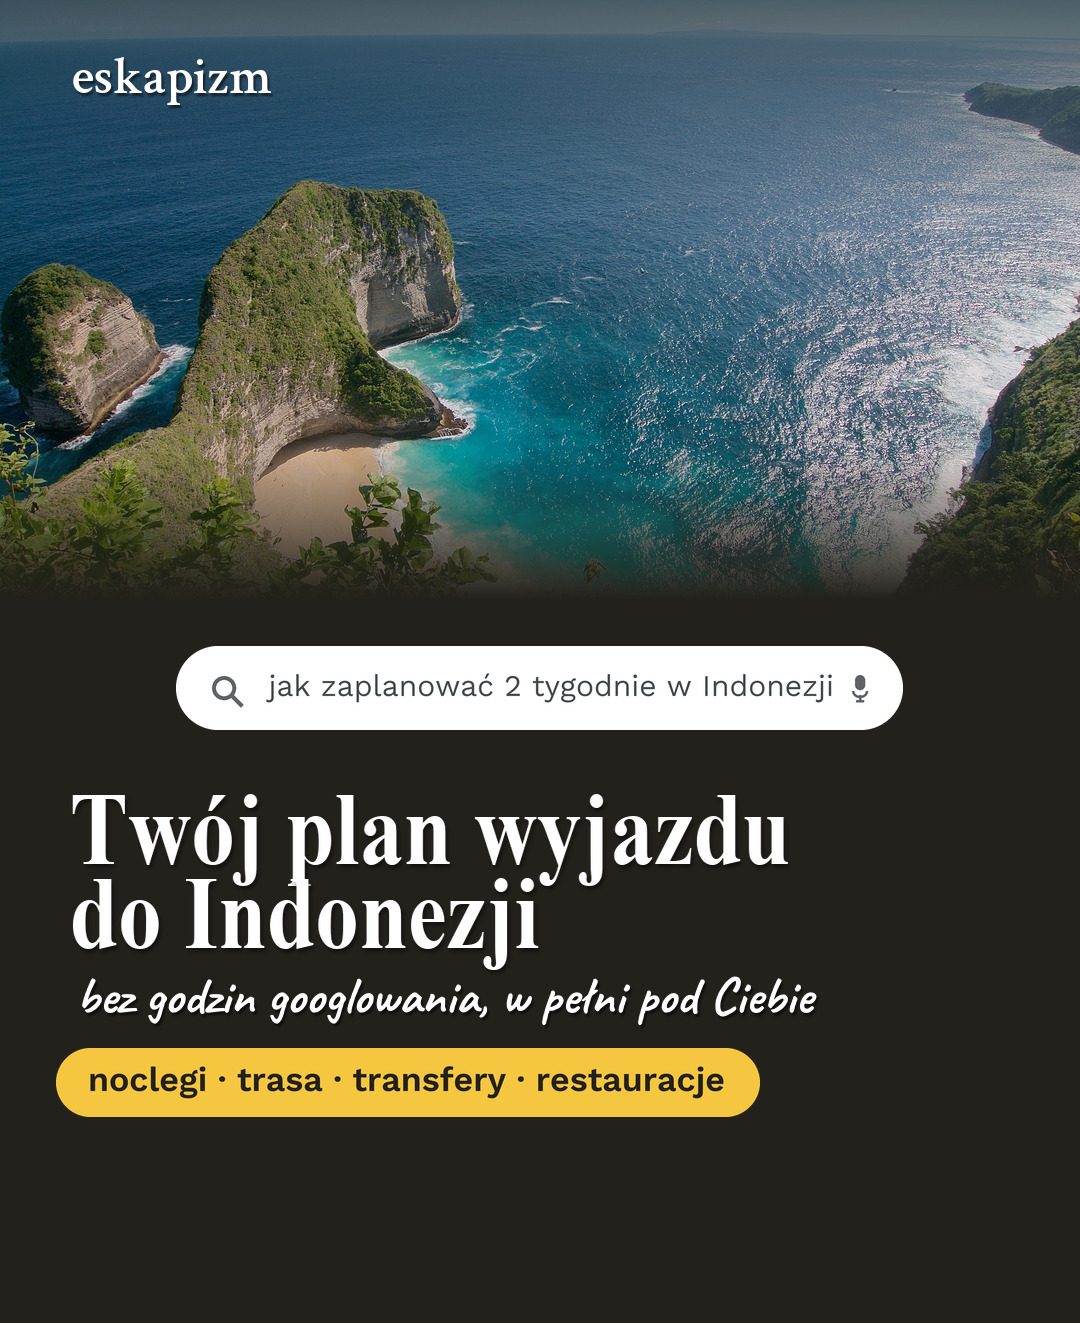
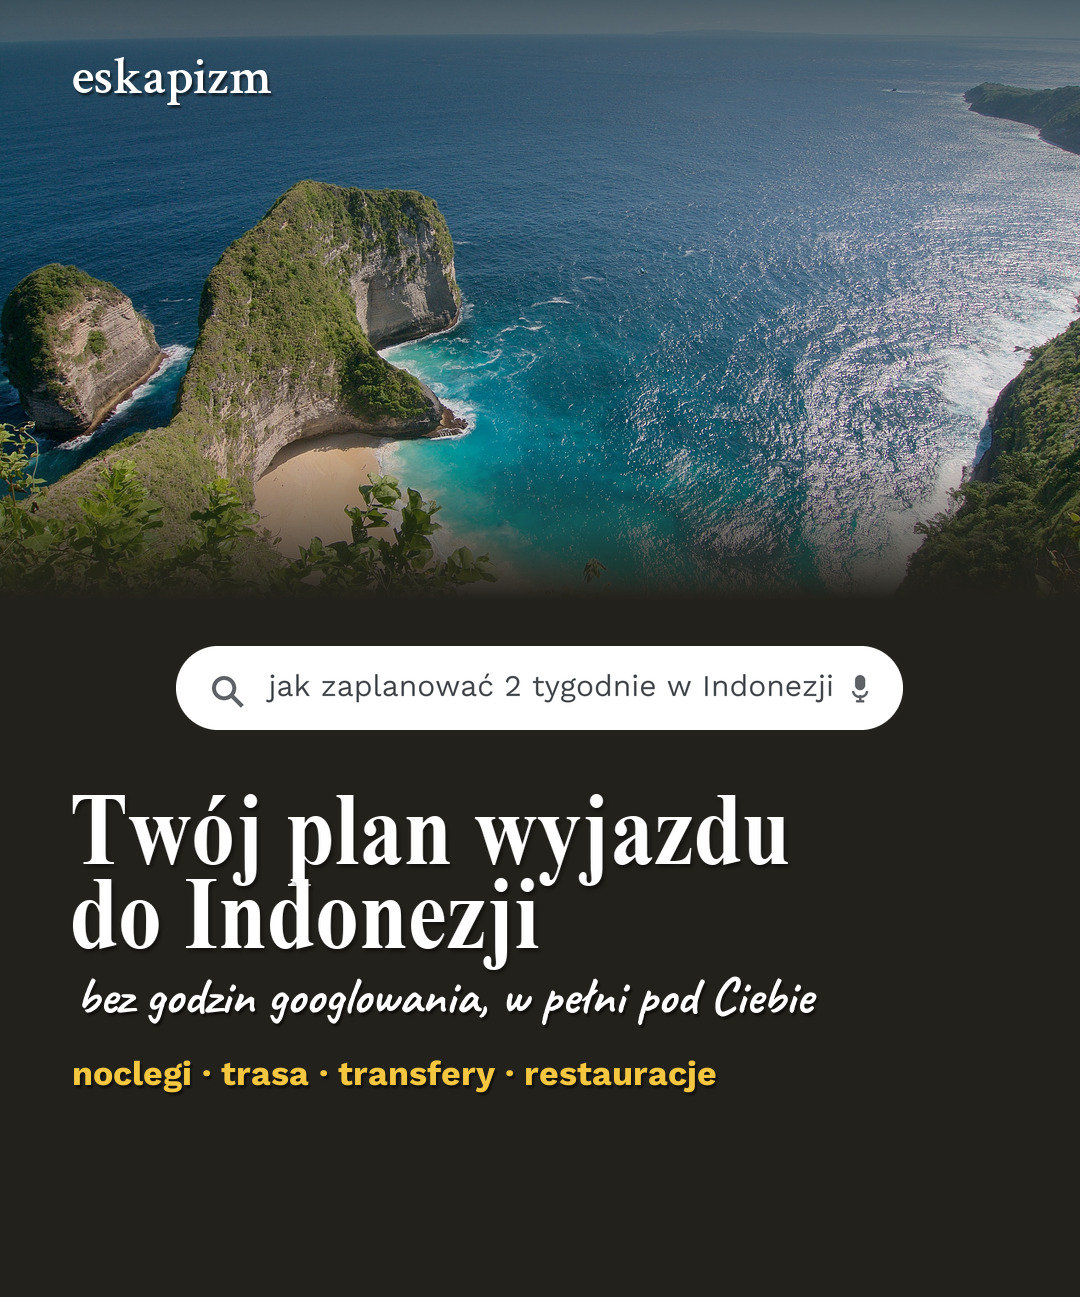
Drop the feature pill shape on mobile
Stacked vertically, the search bar, the yellow feature pill and the CTA read as
three near-identical shapes, and the yellow pill sitting directly above the white
button looked like a competing action. On mobile the feature list now renders as
plain brand-yellow text instead of a pill, leaving two pills separated by the
headline block, and the gap before the CTA grows from 48 to 62px.

Desktop keeps the pill: the layout is horizontal there, so the shapes never
stack and the ambiguity does not arise.

diff --git a/Baner_Indonezja.html b/Baner_Indonezja.html
@@ -71,7 +71,7 @@
   .esk-bn__cta--m {
     display: block;
     left: 16.7593%;
-    top: 88.0574%;
+    top: 87.8180%;
     width: 66.4815%;
     filter: drop-shadow(0 5px 12px rgba(0, 0, 0, 0.26));
     transition: transform 0.14s ease;

diff --git a/Baner_Tajlandia.html b/Baner_Tajlandia.html
@@ -71,7 +71,7 @@
   .esk-bn__cta--m {
     display: block;
     left: 17.2222%;
-    top: 88.0574%;
+    top: 87.8180%;
     width: 65.5556%;
     filter: drop-shadow(0 5px 12px rgba(0, 0, 0, 0.26));
     transition: transform 0.14s ease;

diff --git a/Baner_Wietnam.html b/Baner_Wietnam.html
@@ -71,7 +71,7 @@
   .esk-bn__cta--m {
     display: block;
     left: 15.1852%;
-    top: 88.0574%;
+    top: 87.8180%;
     width: 69.5370%;
     filter: drop-shadow(0 5px 12px rgba(0, 0, 0, 0.26));
     transition: transform 0.14s ease;
